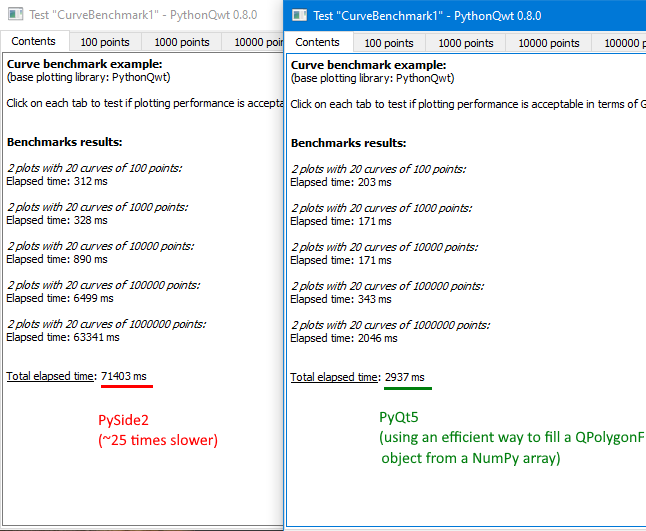
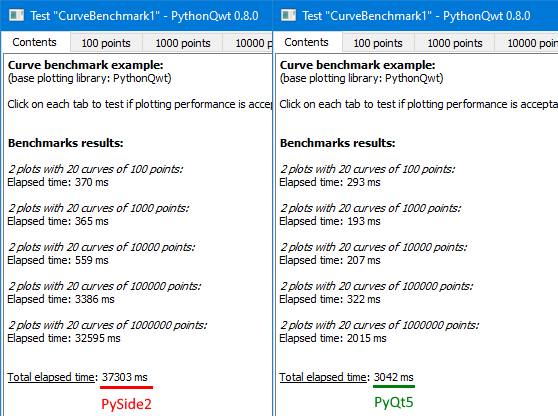
Improved PySide2 support: filling QPolygonF objects directly in memory from NumPy arrays

Changed region(s): [[0.0, 0.0, 1.0, 1.0]]

diff --git a/qwt/plot_curve.py b/qwt/plot_curve.py
@@ -31,6 +31,10 @@ from qtpy import PYSIDE2
 from qtpy.QtGui import QPen, QBrush, QPainter, QPolygonF, QColor
 from qtpy.QtCore import QSize, Qt, QRectF, QPointF
 
+if PYSIDE2:
+    import shiboken2
+    import ctypes
+
 import numpy as np
 
 
@@ -56,26 +60,46 @@ def qwtVerifyRange(size, i1, i2):
     return i2 - i1 + 1
 
 
+def array2d_to_qpolygonf(xdata, ydata):
+    """
+    Utility function to convert two 1D-NumPy arrays representing curve data 
+    (X-axis, Y-axis data) into a single polyline (QtGui.PolygonF object). 
+    This feature is compatible with PyQt4, PyQt5 and PySide2 (requires QtPy).
+    
+    License/copyright: MIT License © Pierre Raybaut 2020.
+    
+    :param numpy.ndarray xdata: 1D-NumPy array (numpy.float64)
+    :param numpy.ndarray ydata: 1D-NumPy array (numpy.float64)
+    :return: Polyline
+    :rtype: QtGui.QPolygonF
+    """
+    dtype = np.float
+    if not (
+        xdata.size == ydata.size == xdata.shape[0] == ydata.shape[0]
+        and xdata.dtype == ydata.dtype == dtype
+    ):
+        raise ValueError("Arguments must be 1D, float64 NumPy arrays with same size")
+    size = xdata.size
+    polyline = QPolygonF(size)
+    if PYSIDE2:  # PySide2 (obviously...)
+        address = shiboken2.getCppPointer(polyline.data())[0]
+        buffer = (ctypes.c_double * 2 * size).from_address(address)
+    else:  # PyQt4, PyQt5
+        buffer = polyline.data()
+        buffer.setsize(2 * size * np.finfo(dtype).dtype.itemsize)
+    memory = np.frombuffer(buffer, dtype)
+    memory[: (size - 1) * 2 + 1 : 2] = xdata
+    memory[1 : (size - 1) * 2 + 2 : 2] = ydata
+    return polyline
+
+
 def series_to_polyline(xMap, yMap, series, from_, to):
     """
     Convert series data to QPolygon(F) polyline
     """
-    xData = xMap.transform(series.xData()[from_ : to + 1])
-    yData = yMap.transform(series.yData()[from_ : to + 1])
-    size = to - from_ + 1
-    if PYSIDE2:
-        polyline = QPolygonF()
-        for index in range(size):
-            polyline.append(QPointF(xData[index], yData[index]))
-    else:
-        polyline = QPolygonF(size)
-        pointer = polyline.data()
-        dtype, tinfo = np.float, np.finfo  # integers: = np.int, np.iinfo
-        pointer.setsize(2 * polyline.size() * tinfo(dtype).dtype.itemsize)
-        memory = np.frombuffer(pointer, dtype)
-        memory[: (to - from_) * 2 + 1 : 2] = xData
-        memory[1 : (to - from_) * 2 + 2 : 2] = yData
-    return polyline
+    xdata = xMap.transform(series.xData()[from_ : to + 1])
+    ydata = yMap.transform(series.yData()[from_ : to + 1])
+    return array2d_to_qpolygonf(xdata, ydata)
 
 
 class QwtPlotCurve_PrivateData(QwtPlotItem_PrivateData):

diff --git a/setup.py b/setup.py
@@ -33,9 +33,8 @@ PythonQwt: Qt plotting widgets for Python
 
 The ``PythonQwt`` package is a 2D-data plotting library using Qt graphical 
 user interfaces for the Python programming language. It is compatible with 
-both ``PyQt4`` and ``PyQt5`` (``PySide`` is currently not supported but it
-could be in the near future as it would "only" requires testing to support 
-it as a stable alternative to PyQt).
+both ``PyQt4``, ``PyQt5`` and ``PySide2`` (see documentation for more information 
+on a performance issue due to PySide2 itself when plotting huge data sets).
 
 The ``PythonQwt`` project was initiated to solve -at least temporarily- the 
 obsolescence issue of `PyQwt` (the Python-Qwt C++ bindings library) which is 
@@ -49,6 +48,22 @@ limitations: efforts were concentrated on basic plotting features, leaving
 higher level features to the `guiqwt` library.
 
 See `README`_ and documentation (`online`_ or `PDF`_) for more details on the library and `changelog`_ for recent history of changes.
+    
+The following example is a good starting point to see how to set up a simple plot widget::
+
+    import qwt
+    import numpy as np
+
+    app = qtpy.QtGui.QApplication([])
+    x = np.linspace(-10, 10, 500)
+    plot = qwt.QwtPlot("Trigonometric functions")
+    plot.insertLegend(qwt.QwtLegend(), qwt.QwtPlot.BottomLegend)
+    qwt.QwtPlotCurve.make(x, np.cos(x), "Cosinus", plot, linecolor="red", antialiased=True)
+    qwt.QwtPlotCurve.make(x, np.sin(x), "Sinus", plot, linecolor="blue", antialiased=True)
+    plot.resize(600, 300)
+    plot.show()
+    
+.. image:: https://raw.githubusercontent.com/PierreRaybaut/PythonQwt/master/doc/images/QwtPlot_example.png
 
 .. _README: https://github.com/PierreRaybaut/PythonQwt/blob/master/README.md
 .. _online: https://pythonqwt.readthedocs.io/en/latest/

diff --git a/qwt/__init__.py b/qwt/__init__.py
@@ -28,7 +28,7 @@ External resources:
 .. _GitHubPage: http://pierreraybaut.github.io/PythonQwt
 .. _GitHub: https://github.com/PierreRaybaut/PythonQwt
 """
-__version__ = "0.8.0"
+__version__ = "0.8.1"
 QWT_VERSION_STR = "6.1.5"
 
 import warnings

diff --git a/README.md b/README.md
@@ -87,10 +87,53 @@ for more details on API limitations when comparing to Qwt.
 
 ### Why PySide2 support is still experimental ###
 
-There is still a significant performance issue with PySide2 (drawing polylines with PySide2 is apparently approx. 60 times slower than with PyQt5, see [this bug report](https://bugreports.qt.io/browse/PYSIDE-1366)).
+<img src="https://raw.githubusercontent.com/PierreRaybaut/PythonQwt/master/doc/images/pyqt5_vs_pyside2.png">
 
-As a consequence, until an equivalent feature is implemented in PySide2, we strongly 
-recommend using PyQt5 instead of PySide2.
+Try running the `curvebenchmark1.py` test with PyQt5 and PySide: you will notice a 
+huge performance issue with PySide2 (see screenshot above). This is due to the fact 
+that `QPainter.drawPolyline` is much more efficient in PyQt5 than it is in PySide2 
+(see [this bug report](https://bugreports.qt.io/projects/PYSIDE/issues/PYSIDE-1366)).
+
+As a consequence, until this bug is fixed in PySide2, we still recommend using PyQt5 
+instead of PySide2 when it comes to representing huge data sets.
+
+However, PySide2 support was significatively improved betwen PythonQwt V0.8.0 and 
+V0.8.1 thanks to the new `array2d_to_qpolygonf` function (see the part related to 
+PySide2 in the code below).
+
+```python
+def array2d_to_qpolygonf(xdata, ydata):
+    """
+    Utility function to convert two 1D-NumPy arrays representing curve data 
+    (X-axis, Y-axis data) into a single polyline (QtGui.PolygonF object). 
+    This feature is compatible with PyQt4, PyQt5 and PySide2 (requires QtPy).
+    
+    License/copyright: MIT License © Pierre Raybaut 2020.
+    
+    :param numpy.ndarray xdata: 1D-NumPy array (numpy.float64)
+    :param numpy.ndarray ydata: 1D-NumPy array (numpy.float64)
+    :return: Polyline
+    :rtype: QtGui.QPolygonF
+    """
+    dtype = np.float
+    if not (
+        xdata.size == ydata.size == xdata.shape[0] == ydata.shape[0]
+        and xdata.dtype == ydata.dtype == dtype
+    ):
+        raise ValueError("Arguments must be 1D, float64 NumPy arrays with same size")
+    size = xdata.size
+    polyline = QPolygonF(size)
+    if PYSIDE2:  # PySide2 (obviously...)
+        address = shiboken2.getCppPointer(polyline.data())[0]
+        buffer = (ctypes.c_double * 2 * size).from_address(address)
+    else:  # PyQt4, PyQt5
+        buffer = polyline.data()
+        buffer.setsize(2 * size * np.finfo(dtype).dtype.itemsize)
+    memory = np.frombuffer(buffer, dtype)
+    memory[: (size - 1) * 2 + 1 : 2] = xdata
+    memory[1 : (size - 1) * 2 + 2 : 2] = ydata
+    return polyline
+```
 
 ## Installation
 

diff --git a/doc/installation.rst b/doc/installation.rst
@@ -25,14 +25,17 @@ Why PySide2 support is still experimental
 
 Try running the `curvebenchmark1.py` test with PyQt5 and PySide: you will notice a 
 huge performance issue with PySide2 (see screenshot above). This is due to the fact 
-that PyQt5 (and PyQt4) allows an efficient way of filling a QPolygonF object from a 
-Numpy array, and PySide2 is not (see code below).
+that `QPainter.drawPolyline` is much more efficient in PyQt5 than it is in PySide2 
+(see `this bug report <https://bugreports.qt.io/projects/PYSIDE/issues/PYSIDE-1366>`_).
+
+As a consequence, until this bug is fixed in PySide2, we still recommend using PyQt5 
+instead of PySide2 when it comes to representing huge data sets.
+
+However, PySide2 support was significatively improved betwen PythonQwt V0.8.0 and 
+V0.8.1 thanks to the new `array2d_to_qpolygonf` function (see code below).
 
 .. literalinclude:: /../qwt/plot_curve.py
-   :pyobject: series_to_polyline
-
-As a consequence, until an equivalent feature is implemented in PySide2, we strongly 
-recommend using PyQt5 instead of PySide2.
+   :pyobject: array2d_to_qpolygonf
 
 Help and support
 ----------------

diff --git a/CHANGELOG.md b/CHANGELOG.md
@@ -1,5 +1,9 @@
 # PythonQwt Releases #
 
+### Version 0.8.1 ###
+
+- PySide2 support was significatively improved betwen PythonQwt V0.8.0 and 
+  V0.8.1 thanks to the new `qwt.qwt_curve.array2d_to_qpolygonf` function.
 
 ### Version 0.8.0 ###
 
